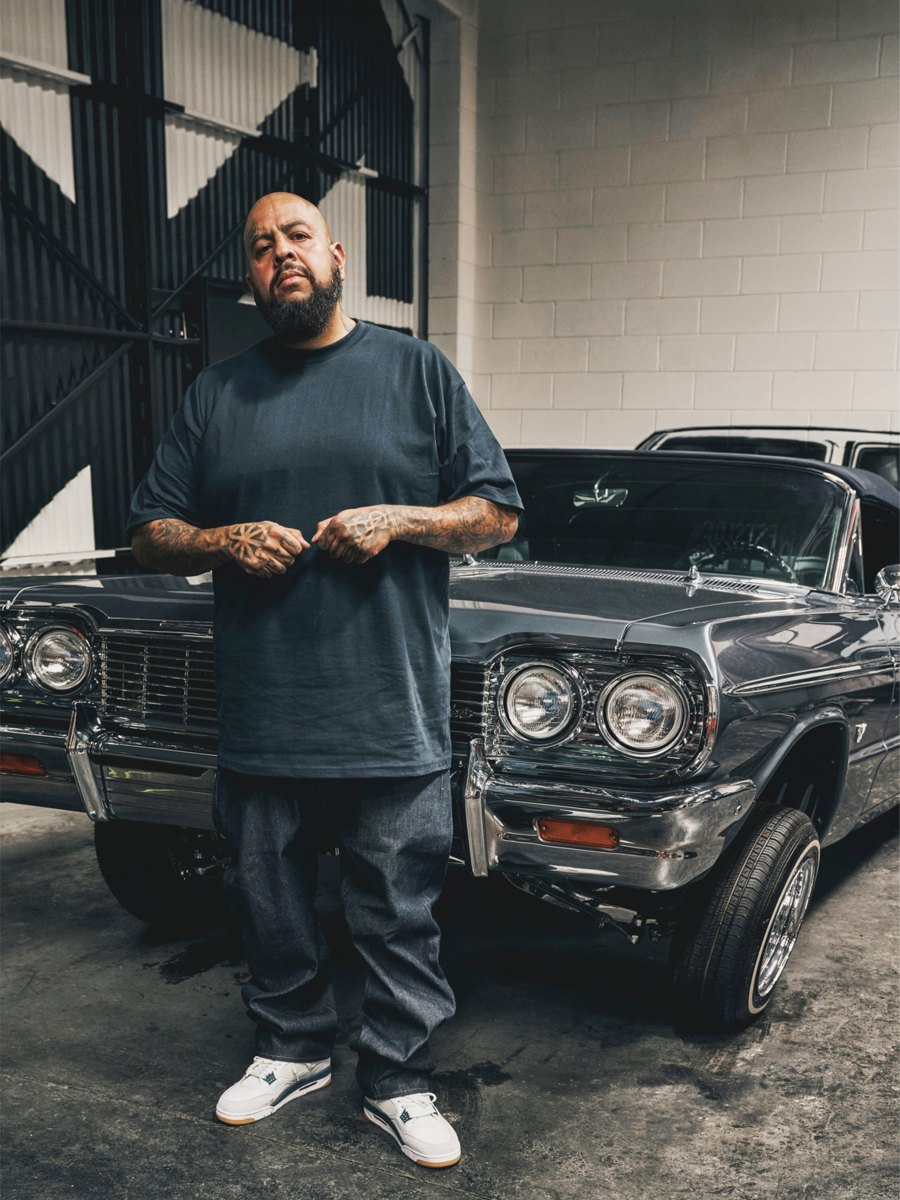
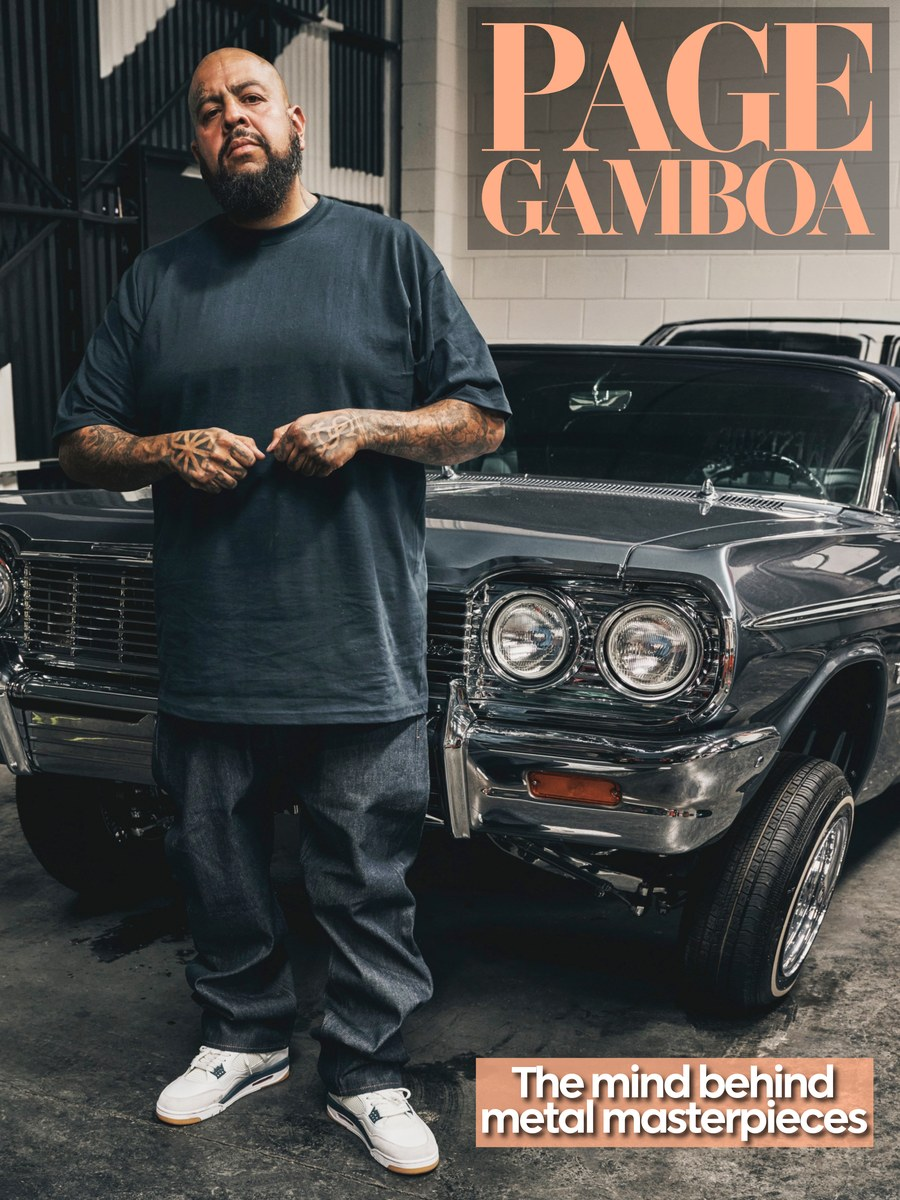
Features grid: Page Gamboa cover, Chantel Navarro cover
* Page Gamboa: carousel cover on home page card

Claude-Session: https://claude.ai/code/session_012U18n2jx8i57thyH5Nwtnb

* Features grid: add Chantel Navarro cover linking to her Athletes feature

Claude-Session: https://claude.ai/code/session_012U18n2jx8i57thyH5Nwtnb

---------

diff --git a/index.html b/index.html
@@ -816,7 +816,7 @@ new IntersectionObserver(function(e){hd.classList.toggle('stuck',!e[0].isInterse
 </footer>
 
 <script>
-const IMG = {"photo": "images/photo.jpg", "film": "images/film.jpg", "serve": "images/serve.jpg", "dance": "images/dance.jpg", "yoga2": "images/yoga2.jpg", "calm": "images/calm.jpg", "pottery": "images/pottery.jpg", "drawing": "images/drawing.jpg", "writing": "images/writing.jpg", "music": "images/music.jpg", "taichi": "images/taichi.jpg", "more": "images/more.jpg", "e2": "images/e2.jpg", "lfa_fight": "images/lfa_fight.jpg", "lm_tape": "images/lm_tape.jpg", "ch_young": "images/ch_young.jpg", "f_kent": "images/f_kent.jpg", "f_chelsie": "images/f_chelsie.jpg", "f_onofre": "images/f_onofre.jpg", "f_aaron": "images/f_aaron.jpg", "f_lilian": "images/f_lilian.jpg", "f_risky": "images/f_risky.jpg", "f_fiona": "images/f_fiona.jpg", "f_tobias": "images/f_tobias.jpg", "f_duncan": "images/f_duncan.jpg", "f_tommy": "images/f_tommy.jpg", "f_ford": "images/f_ford.jpg", "f_carlo": "images/f_carlo.jpg", "f_greg": "images/f_greg.jpg", "f_eddie": "images/f_eddie.jpg", "f_solodome": "images/f_solodome.jpg", "f_page": "images/f_page.jpg", "f_damon": "images/f_damon.jpg", "f_quan": "images/f_quan.jpg", "v_solodome": "images/v_solodome.jpg", "v_tommy": "images/v_tommy.jpg", "v_shepard": "images/v_shepard.jpg", "v_page": "images/v_page.jpg", "v_lilian": "images/v_lilian.jpg", "v_aaron": "images/v_aaron.jpg"};
+const IMG = {"photo": "images/photo.jpg", "film": "images/film.jpg", "serve": "images/serve.jpg", "dance": "images/dance.jpg", "yoga2": "images/yoga2.jpg", "calm": "images/calm.jpg", "pottery": "images/pottery.jpg", "drawing": "images/drawing.jpg", "writing": "images/writing.jpg", "music": "images/music.jpg", "taichi": "images/taichi.jpg", "more": "images/more.jpg", "e2": "images/e2.jpg", "lfa_fight": "images/lfa_fight.jpg", "lm_tape": "images/lm_tape.jpg", "ch_young": "images/ch_young.jpg", "f_kent": "images/f_kent.jpg", "f_chelsie": "images/f_chelsie.jpg", "f_onofre": "images/f_onofre.jpg", "f_aaron": "images/f_aaron.jpg", "f_lilian": "images/f_lilian.jpg", "f_risky": "images/f_risky.jpg", "f_fiona": "images/f_fiona.jpg", "f_tobias": "images/f_tobias.jpg", "f_duncan": "images/f_duncan.jpg", "f_tommy": "images/f_tommy.jpg", "f_ford": "images/f_ford.jpg", "f_carlo": "images/f_carlo.jpg", "f_greg": "images/f_greg.jpg", "f_eddie": "images/f_eddie.jpg", "f_solodome": "images/f_solodome.jpg", "f_page": "images/f_page.jpg", "f_chantel": "images/f_chantel.jpg", "f_damon": "images/f_damon.jpg", "f_quan": "images/f_quan.jpg", "v_solodome": "images/v_solodome.jpg", "v_tommy": "images/v_tommy.jpg", "v_shepard": "images/v_shepard.jpg", "v_page": "images/v_page.jpg", "v_lilian": "images/v_lilian.jpg", "v_aaron": "images/v_aaron.jpg"};
 const PROGRAMS = [
   ['Photography','Pictures, at the survivor’s pace.','photo'],['Filmmaking','A short film, with a crew that adapts.','film'],['Painting','Color and brushes. Nothing to get right.','serve'],
   ['Pottery','Clay in the hands.','pottery'],['Drawing','Paper, line, and a quiet table.','drawing'],['Writing','Words, or dictation. Silence is allowed.','writing'],
@@ -845,9 +845,10 @@ const FEATURES = [
   ['greg-fante','Greg Fante','The Coach of Louisville','Laura Sharpe’s Athletes Profile · October 2026','','f_greg'],
   ['eddie-donaldson','Eddie Donaldson','Founder of GuerillaOne','Graffiti · Street Art · The Trust Agency','It’s an energy thing…','f_eddie'],
   ['solodome','Solodome × Solotones','Meet the Engineers Behind the Experience','The Chair · The Tones · The Technology','Not something to hear. Something to feel.','f_solodome'],
-  ['page-gamboa','Page Gamboa','The Mind Behind Metal Masterpieces','Custom Car Builder · Westside Car Club Lifer · Founder, Supreme Motorsports','I’m a product of my environment.','f_page']];
+  ['page-gamboa','Page Gamboa','The Mind Behind Metal Masterpieces','Custom Car Builder · Westside Car Club Lifer · Founder, Supreme Motorsports','I’m a product of my environment.','f_page'],
+  ['chantel-navarro','Chantel Navarro','Sponsored by Athletes for Trauma','Boxer · Athletes for Trauma','','f_chantel']];
 const esc = s => s.replace(/&/g,'&amp;').replace(/</g,'&lt;');
-const ARTICLES = new Set(['ford-austin','aaron-baker','chelsie-hill','onofre-banderas','lilian-raven','fiona-dowdee','risky','thomas-duncan','tobias-forrest','tommy-hollenstein','quan-b','damon-bell','carlo-kellem','kent-seton','greg-fante','eddie-donaldson','solodome','page-gamboa']); const fhref = id => ARTICLES.has(id) ? `/features/${id}/` : `#feature-${id}`;
+const ARTICLES = new Set(['ford-austin','aaron-baker','chelsie-hill','onofre-banderas','lilian-raven','fiona-dowdee','risky','thomas-duncan','tobias-forrest','tommy-hollenstein','quan-b','damon-bell','carlo-kellem','kent-seton','greg-fante','eddie-donaldson','solodome','page-gamboa']); const EXT = {'chantel-navarro':'https://athletes-for-trauma.netlify.app/features/chantel-navarro/'}; const fhref = id => EXT[id] ? EXT[id] : ARTICLES.has(id) ? `/features/${id}/` : `#feature-${id}`;
 const cover = ([id,n,d,,,im]) => `<a class="fcover" href="${fhref(id)}" aria-label="${esc(n)}: ${esc(d)}"><img src="${IMG[im]}" alt="${esc(n)} magazine cover"><span class="cap"><span><b>${esc(n)}</b><small>${esc(d)}</small></span><i>→</i></span></a>`;
 document.getElementById('fwall').innerHTML = FEATURES.map(cover).join('');
 const home = document.getElementById('top'), fview = document.getElementById('fview');
